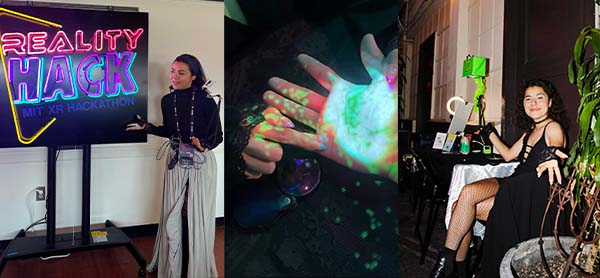
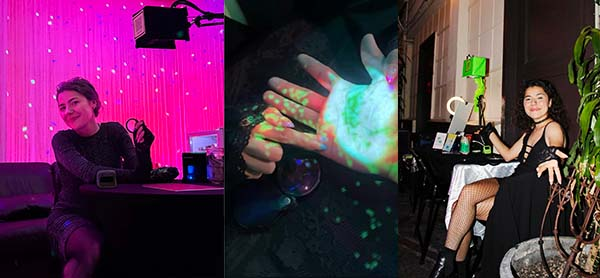
updates to booking page

diff --git a/booking.html b/booking.html
@@ -40,21 +40,10 @@ layout: null
         </div>
     </div>
         <p style="text-align:center; color:white">View additional images and videos on <a href="https://www.instagram.com/bugmuthur/" style="color: lime !important">Instagram</a>.</p>
-        <div class="bm-page-section-2">
-            <div class="bm-misc" id="shop">
-        <div class="bm-buttons">
-            <a class="bm-button" href="https://www.gigsalad.com/high_tech_palm_reader_inglewood">
-                <p>BOOK VIA Gigsalad</p>
-            </a> 
-        </div>
-        <div class="bm-buttons">
-            <a class="bm-button" href="https://www.thebash.com/palm-reader/high-tech-palm-reader">
-                <p>BOOK VIA The Bash</p>
-            </a> 
-        </div>
-        </div>
-        </div>
-        <p style="text-align:center; color:white">You can also submit event booking inquiries by emailing <a href="mailto:indigo@ktcg.art?subject=booking inquiry" style="color: lime !important">indigo@ktcg.art</a>.</p>
+    <div class="bm-subtitle">
+        <h2 style="text-align:center; color:white">Event Bookings:</h2>
+    </div>
+        <p style="text-align:center; color:white">Submit event booking inquiries by emailing <a href="mailto:indigo@ktcg.art?subject=booking inquiry" style="color: lime !important">indigo@ktcg.art</a>.<br><br>Please share the location, date, time, and event type.</p>
 
     <div class="bm-subtitle">
         <h2 style="text-align:center; color:white">Upcoming Public Readings:</h2>
@@ -86,8 +75,26 @@ layout: null
             </div>
             <div class="captioned-image" style="min-width: 200pt; margin-top:0; max-width: 600px;">
                 <img alt="event palm reader" src="/assets/readings/promo_photo02.jpg" />
+            </div>
+            <div class="captioned-image" style="min-width: 200pt; margin-top:0; max-width: 600px;">
+                <img alt="event palm reader" src="/assets/readings/promo_photo03.jpg" />
                 <p style="text-align:center; color:white">High-res (300 DPI 1350x1080) versions available upon request</p>
             </div>
+
+        <div class="bm-page-section-2">
+            <div class="bm-misc" id="shop">
+        <div class="bm-buttons">
+            <a class="bm-button" href="https://www.gigsalad.com/high_tech_palm_reader_inglewood">
+                <p>View on Gigsalad</p>
+            </a> 
+        </div>
+        <div class="bm-buttons">
+            <a class="bm-button" href="https://www.thebash.com/palm-reader/high-tech-palm-reader">
+                <p>View on The Bash</p>
+            </a> 
+        </div>
+        </div>
+        </div>
             <!-- <div class="bm-subtitle">
         <h1>Event Entertainment Booking Form</h1>
     </div>
